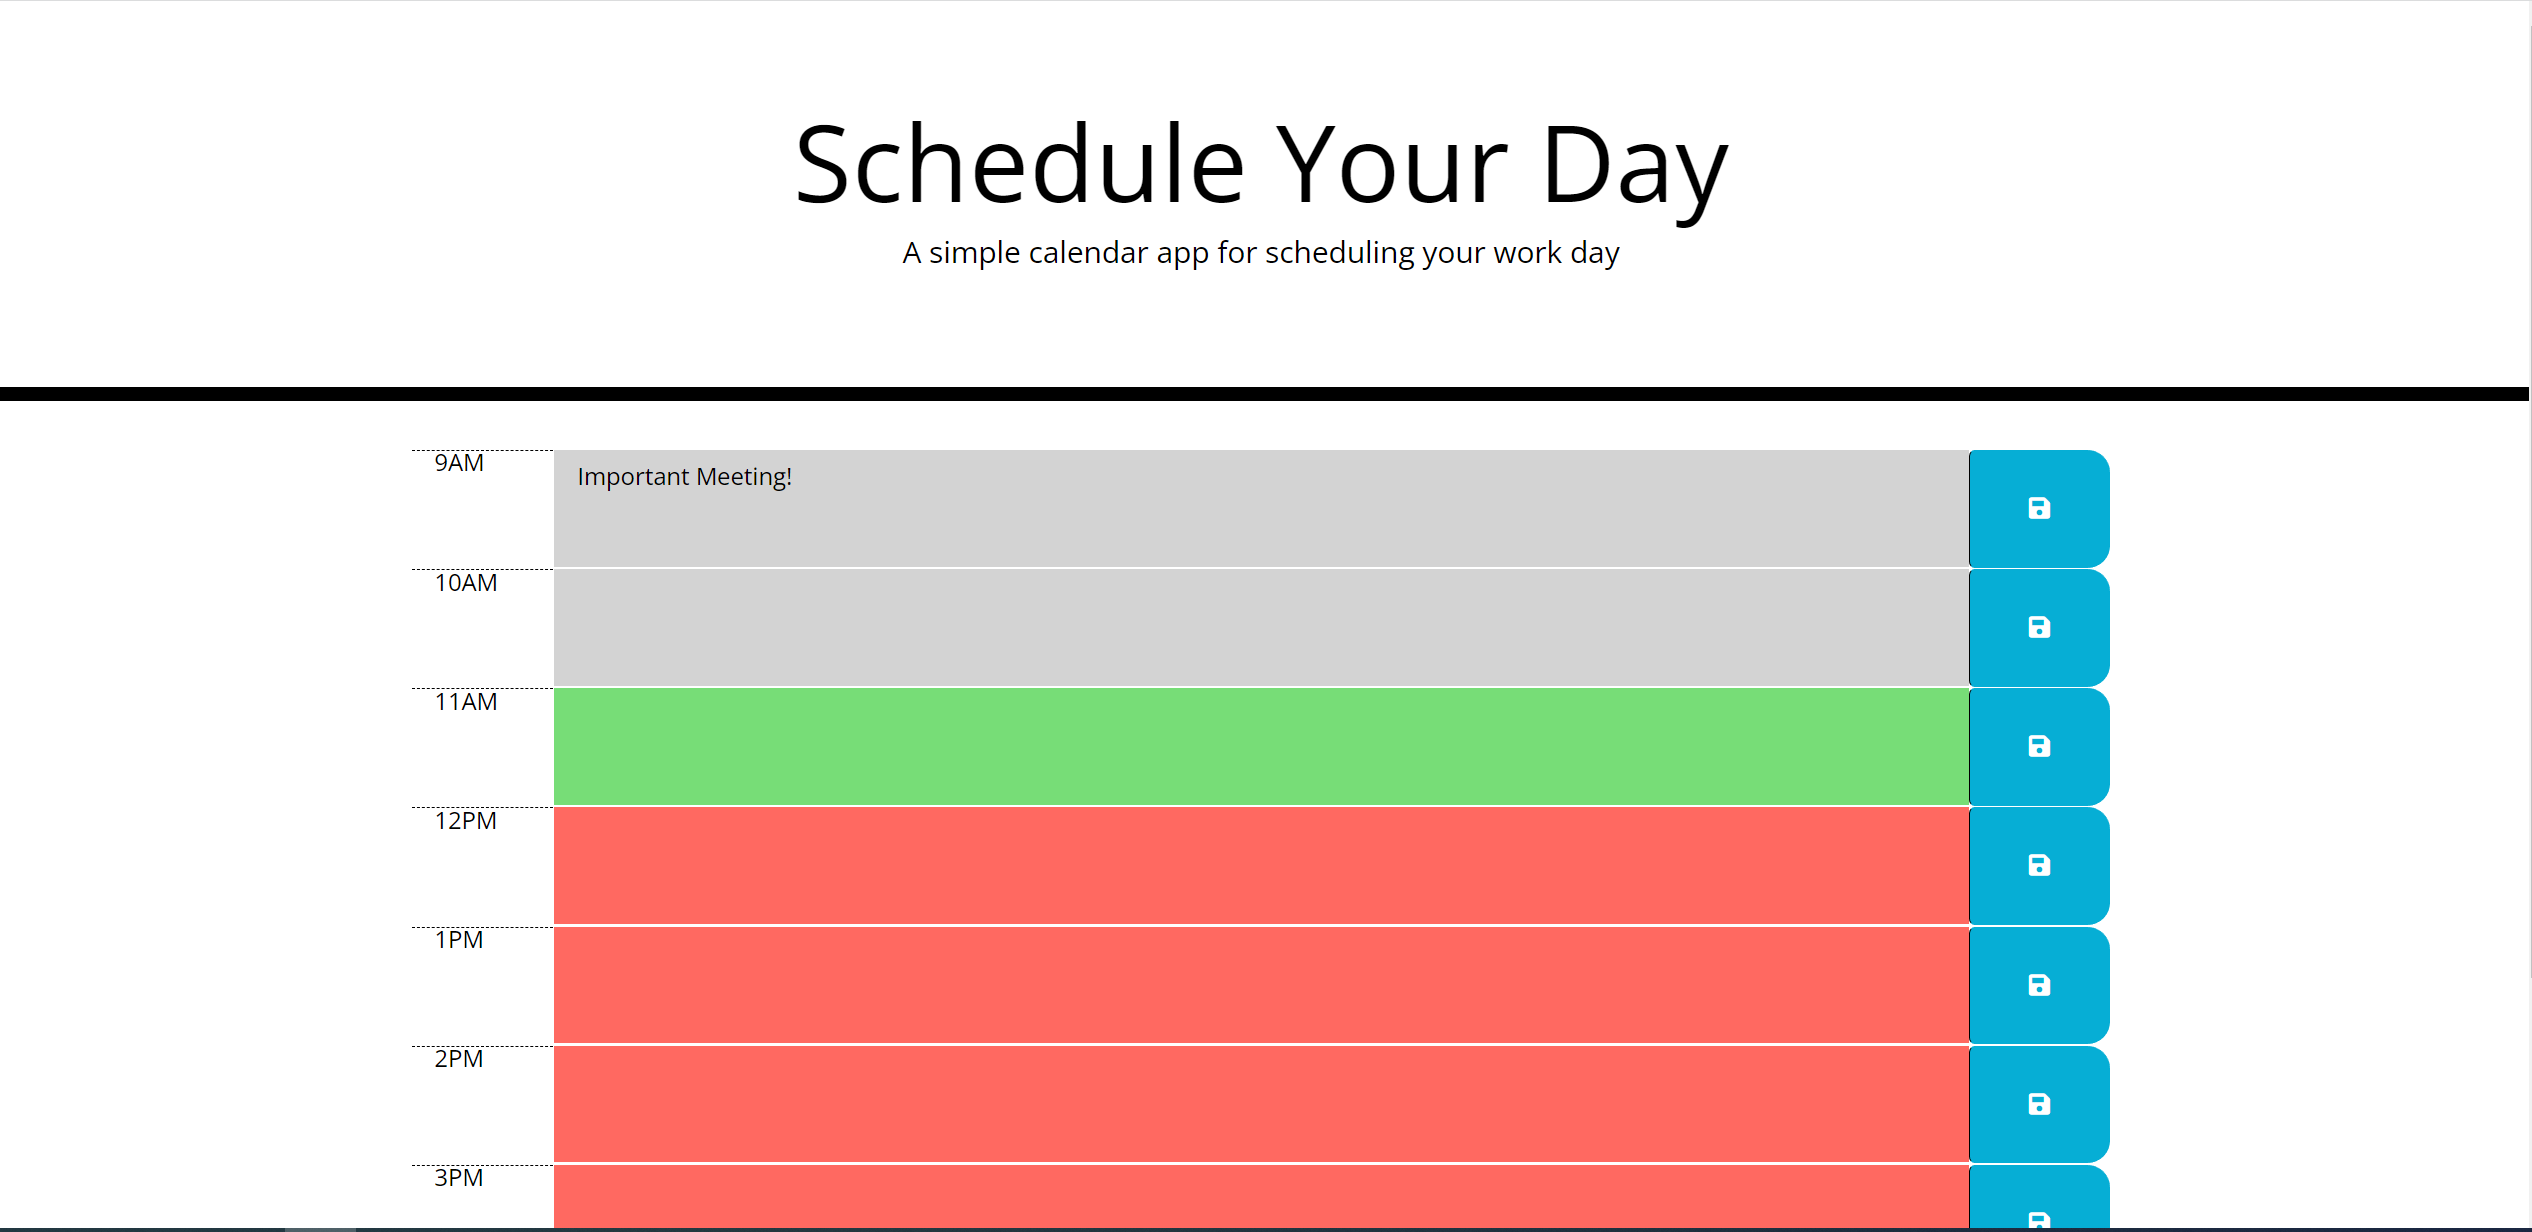
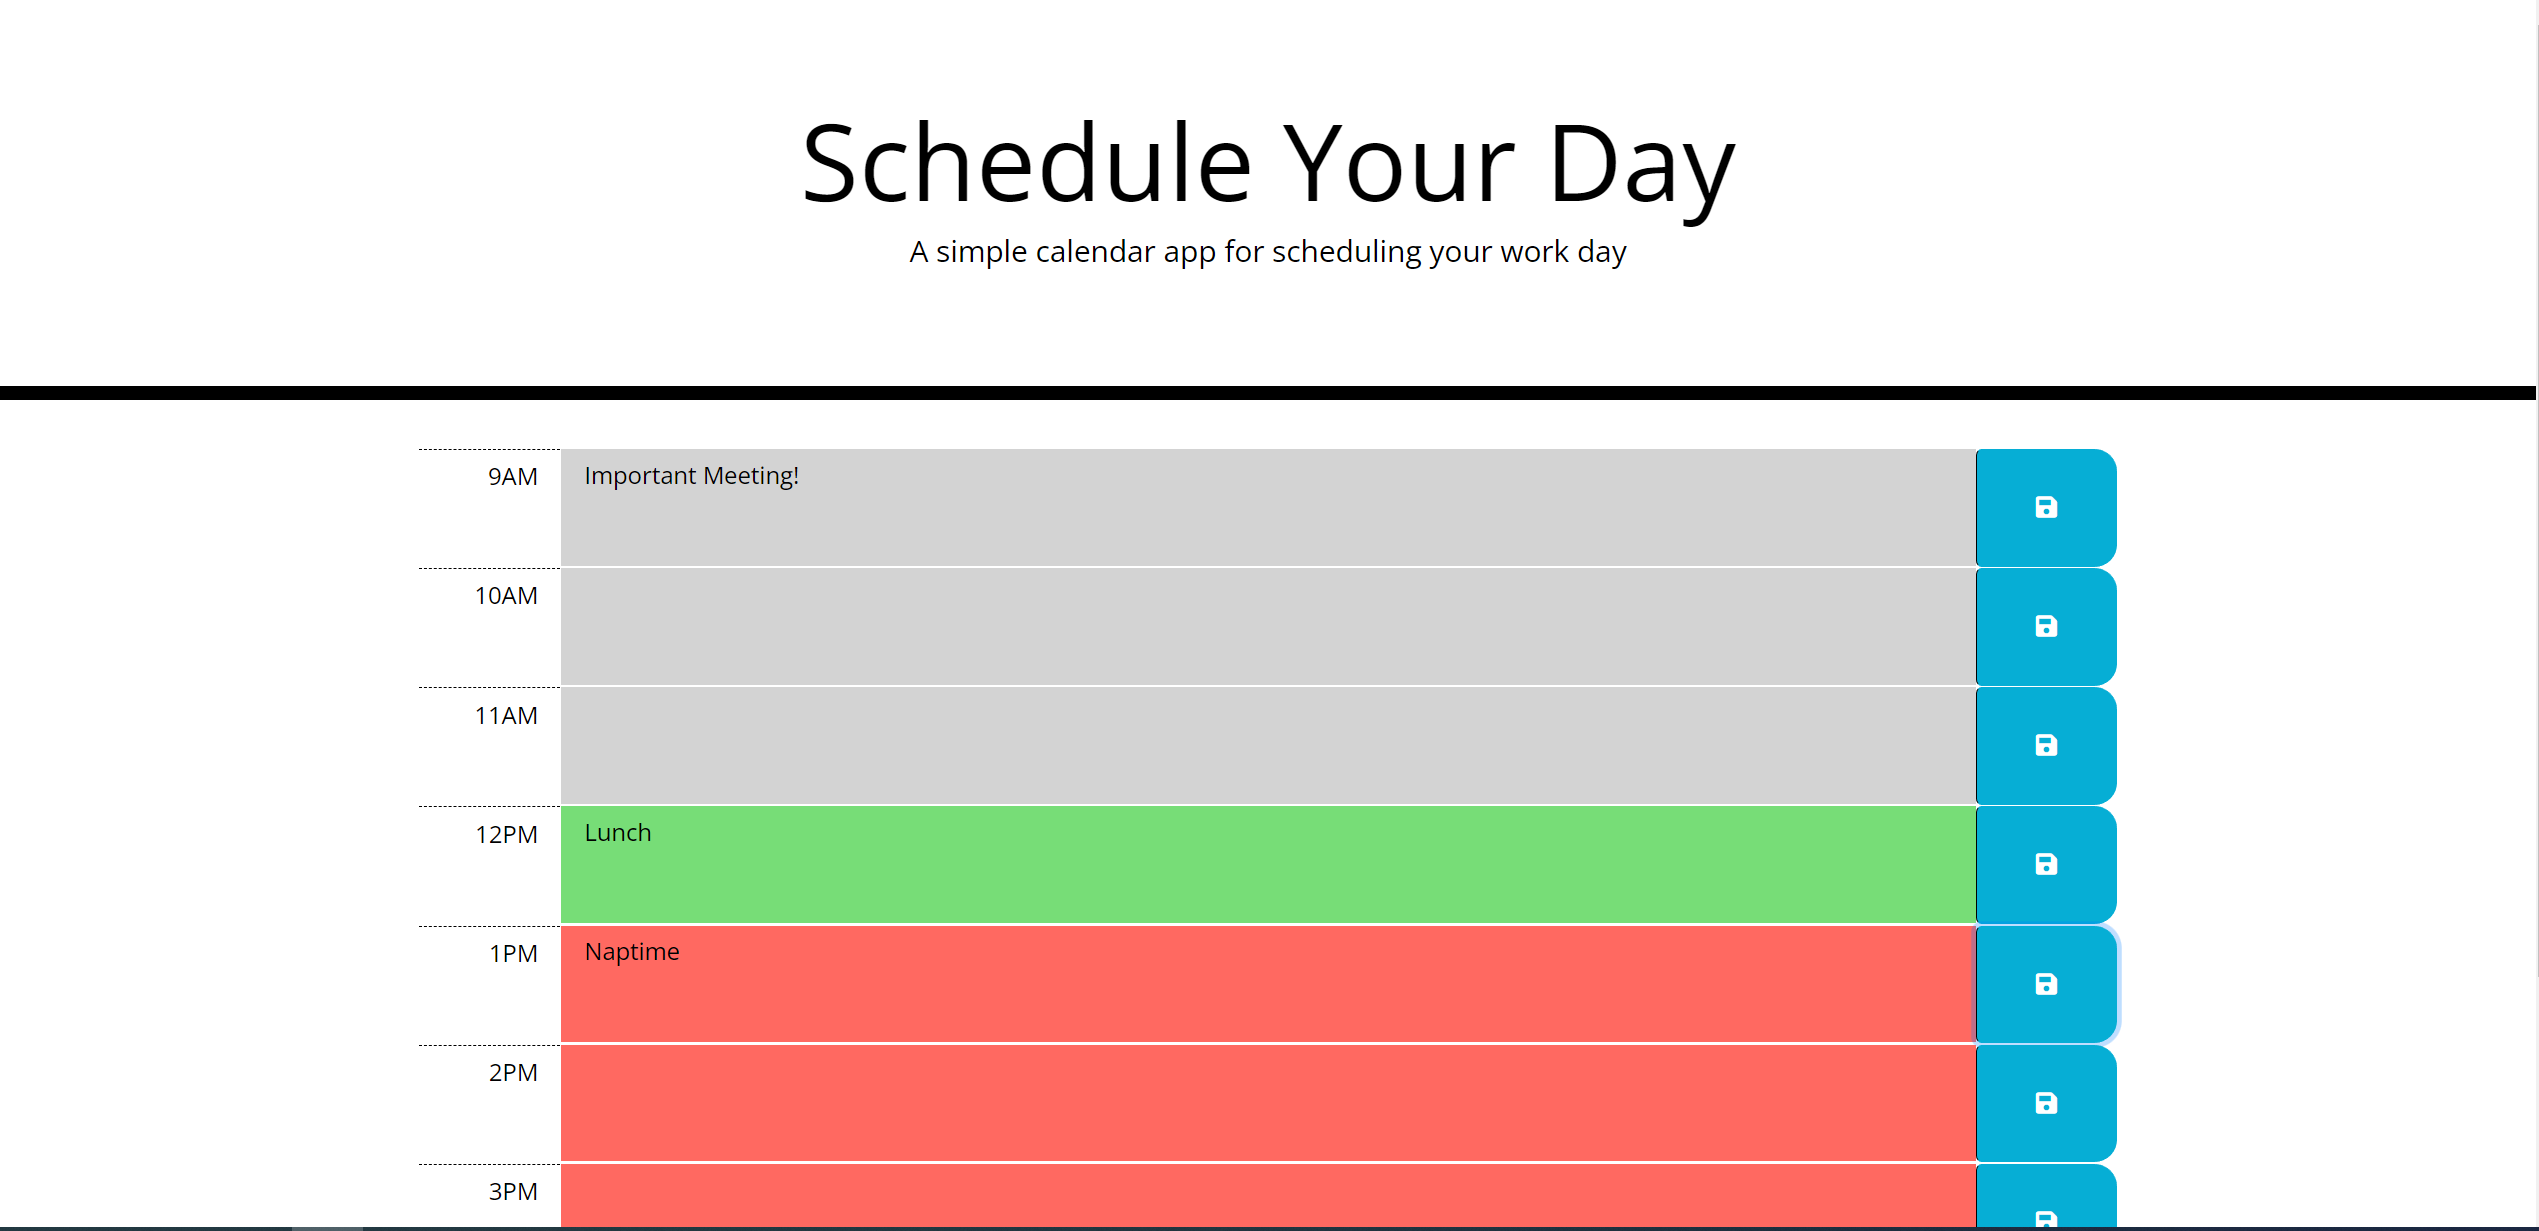
final tweaks to css for padding and alignment

diff --git a/assets/js/script.js b/assets/js/script.js
@@ -1,7 +1,9 @@
-  
+let currentHour = moment().hour();
+
+
 //Check if tasks exists as local storage object, if not create, then set background color and load data from local storage
 let loadTasks = function() {
-    let currentHour = moment().hour();
+    
 
     if (!localStorage.getItem("tasks")) {
         tasks = {

diff --git a/assets/css/style.css b/assets/css/style.css
@@ -40,6 +40,8 @@ textarea{
   background-color: #ffffff;
   color: #000000;
   border-top: 1px dashed #000000;
+  padding-top: 10px;
+  text-align: right;
 }
 
 .past {
